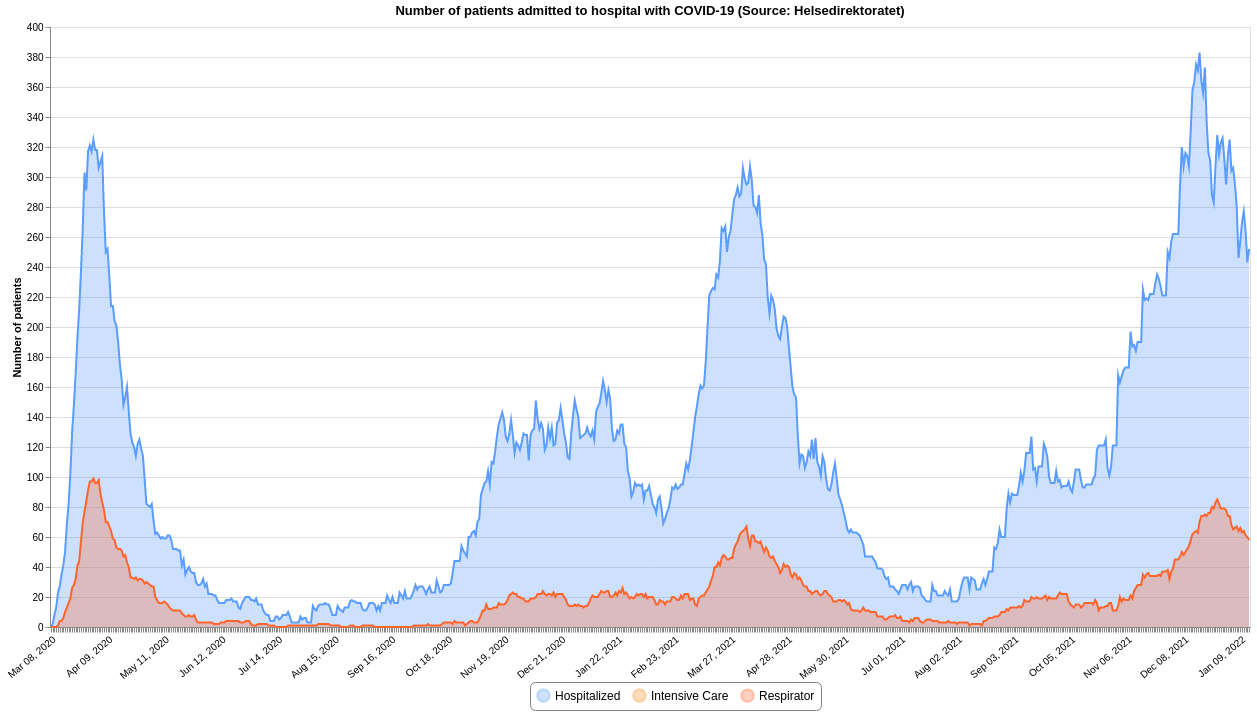
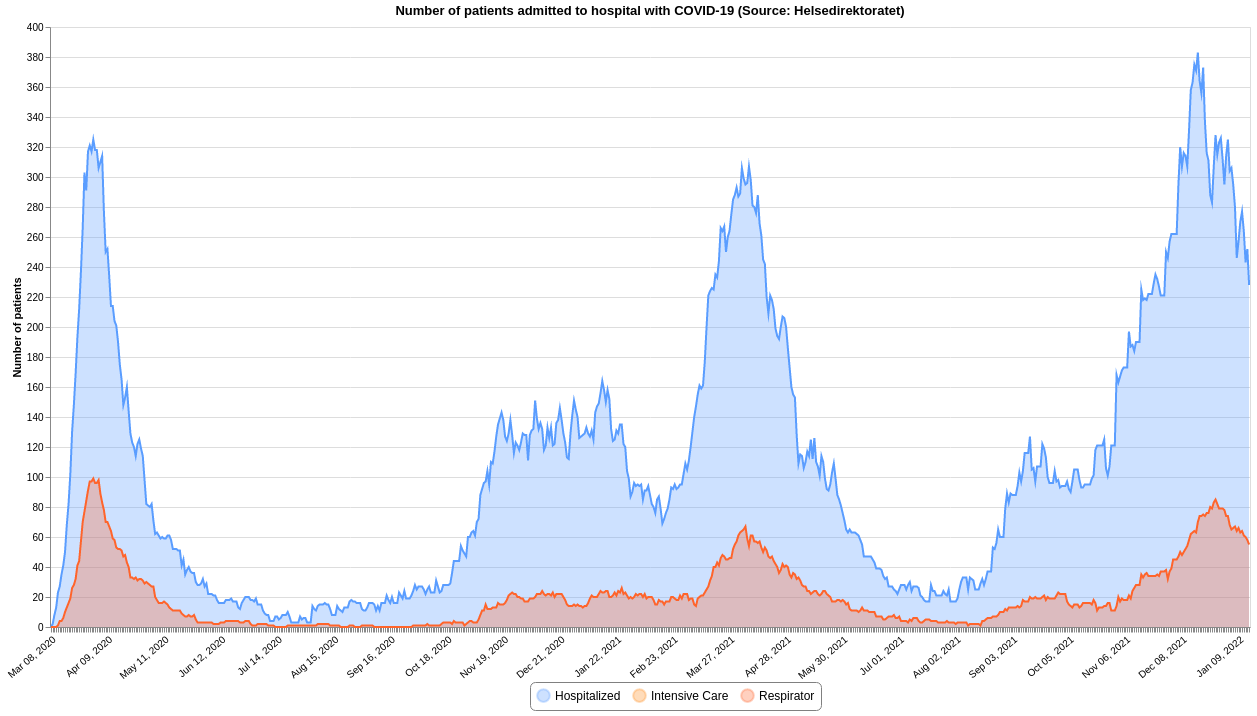
Updated 2022-01-15 12:50

diff --git a/README.md b/README.md
@@ -12,7 +12,7 @@ This repository contains datasets of daily time-series data related to COVID-19 
 | :--- | :--- | :--- | :--- | :--- |
 |[Confirmed](#confirmedcsv)|FHI / MSIS|2022-01-15 00:20:44+01:00|[<center>csv</center>](https://raw.githubusercontent.com/frefrik/covid19norge-data/main/data/confirmed.csv)|[<center>preview</center>](data/confirmed.csv)|
 |[Dead](#deadcsv)|FHI|2022-01-14 13:20:55+01:00|[<center>csv</center>](https://raw.githubusercontent.com/frefrik/covid19norge-data/main/data/dead.csv)|[<center>preview</center>](data/dead.csv)|
-|[Hospitalized](#hospitalizedcsv)|Helsedirektoratet|2022-01-14 12:20:51+01:00|[<center>csv</center>](https://raw.githubusercontent.com/frefrik/covid19norge-data/main/data/hospitalized.csv)|[<center>preview</center>](data/hospitalized.csv)|
+|[Hospitalized](#hospitalizedcsv)|Helsedirektoratet|2022-01-15 12:50:43+01:00|[<center>csv</center>](https://raw.githubusercontent.com/frefrik/covid19norge-data/main/data/hospitalized.csv)|[<center>preview</center>](data/hospitalized.csv)|
 |[Tested](#testedcsv)|FHI|2022-01-14 13:00:44+01:00|[<center>csv</center>](https://raw.githubusercontent.com/frefrik/covid19norge-data/main/data/tested.csv)|[<center>preview</center>](data/tested.csv)|
 |[Tested Lab](#tested_labcsv)|FHI|2022-01-14 13:20:50+01:00|[<center>csv</center>](https://raw.githubusercontent.com/frefrik/covid19norge-data/main/data/tested_lab.csv)|[<center>preview</center>](data/tested_lab.csv)|
 |[Transport](#transportcsv)|FHI|2021-09-24 23:10:46+02:00|[<center>csv</center>](https://raw.githubusercontent.com/frefrik/covid19norge-data/main/data/transport.csv)|[<center>preview</center>](data/transport.csv)|
